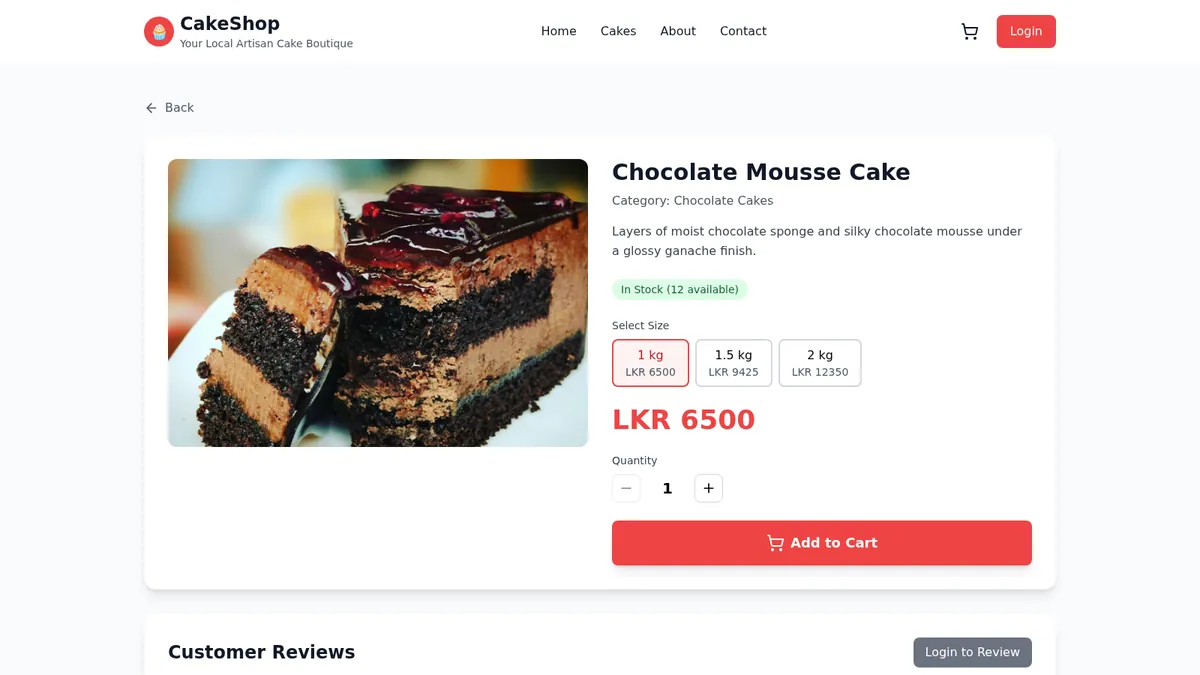
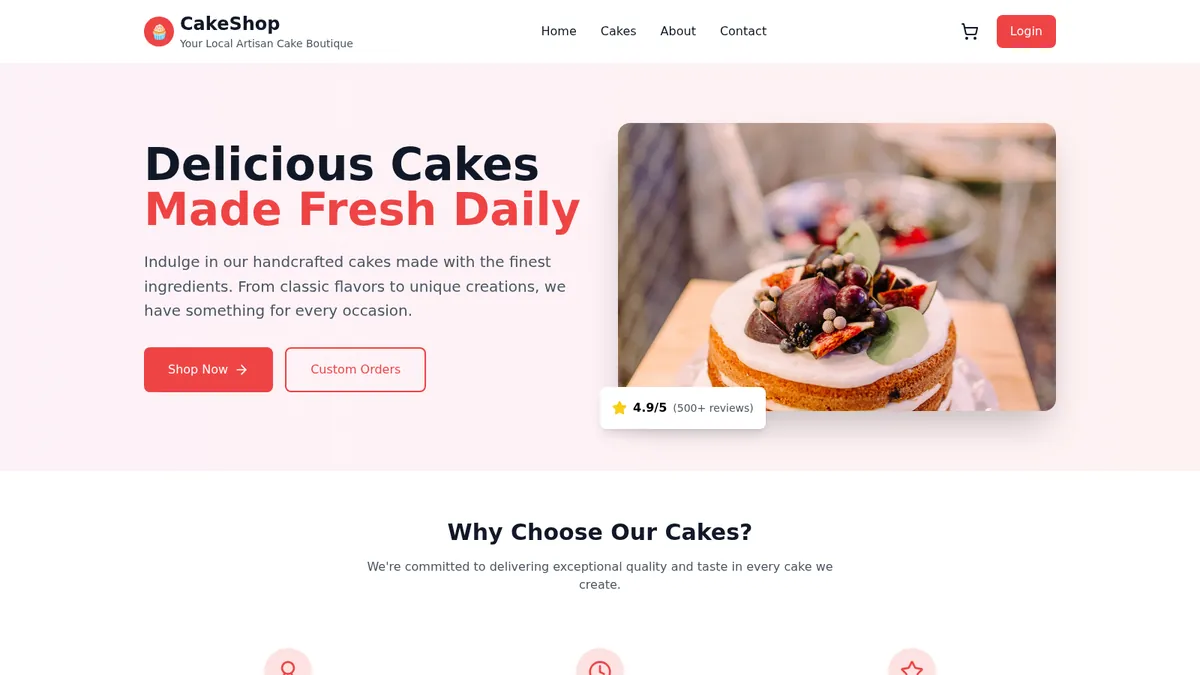
Use each app's home page as its project screenshot
- replace the CakeShop product page and Ceylon Cuisine recipe cards
  with their home pages, and add the RelaxU home page; all three from
  local runs, 1200x675 WebP, alt text describing each home page
- RelaxU: 'What I built' covers the relaxation activities module,
  from the commit history (17 of the module's 19 commits)

diff --git a/src/data/projects.ts b/src/data/projects.ts
@@ -71,7 +71,7 @@ export const projects: ProjectEntry[] = [
     stack: ['React', 'Vite', 'Tailwind CSS', 'React Router', 'Axios', 'Node.js', 'Express', 'MongoDB', 'Mongoose', 'JWT', 'Nodemailer', 'PayHere'],
     keyStack: ['React', 'Tailwind CSS', 'PayHere'],
     thumbnail: '/projects/cakeshop.webp',
-    thumbnailAlt: 'CakeShop product page for a chocolate mousse cake, with size options priced in LKR, stock status and an Add to Cart button',
+    thumbnailAlt: 'CakeShop home page with the headline Delicious Cakes Made Fresh Daily, Shop Now and Custom Orders buttons, and a photo of a fruit-topped cake',
     description:
       'Customers browse cakes by category with search and filters, add them to a cart or wishlist, request custom cakes and track their orders, paying by cash on delivery or through PayHere with zone-based delivery fees. An admin side manages products, categories, orders, custom requests, reviews and customer messages, with a sales and order analytics dashboard.',
     built: [
@@ -120,7 +120,7 @@ export const projects: ProjectEntry[] = [
     stack: ['PHP', 'MySQL', 'JavaScript', 'AJAX', 'CSS'],
     keyStack: ['PHP', 'MySQL', 'JavaScript'],
     thumbnail: '/projects/ceylon-cuisine.webp',
-    thumbnailAlt: 'Ceylon Cuisine recipe cards for Watalappan, Achcharu and Asmi, each with a photo, description, star rating and View Recipe button',
+    thumbnailAlt: 'Ceylon Cuisine home page welcoming visitors, with Explore and Submit buttons and a photo of a Sri Lankan rice and curry meal',
     description:
       'Guests browse and search recipes; registered members submit their own with ingredients, steps and photos, rate recipes and keep favourites. Submissions go through an admin approval workflow, and an admin dashboard covers user management, recipe moderation and platform statistics. Accounts use hashed passwords and role-based access for admins and members.',
     built: [
@@ -159,9 +159,16 @@ export const projects: ProjectEntry[] = [
     summary: 'Stress-monitoring and workload app for university students, built by a team of four on a custom PHP MVC.',
     stack: ['PHP', 'JavaScript', 'HTML', 'CSS', 'MySQL', 'PHPMailer'],
     keyStack: ['PHP', 'JavaScript', 'MySQL'],
+    thumbnail: '/projects/relaxu.webp',
+    thumbnailAlt: 'RelaxU home page with the headline Healthy Minds, Happy Lives, Student Mental Health Consultancy, a Get started button and a photo of a student studying',
     description:
       'RelaxU helps university students notice stress early and keep their workload under control. It combines self-assessment surveys and typing-behaviour analysis for stress insights with mindfulness, guided meditation and breathing exercises, and recommends counselling at high stress levels. Coursework organisers, reminders and priority-based planning sit alongside discussion forums, peer support groups, articles and videos, and session booking with counsellors and academic advisors. It is built on a custom MVC architecture in plain PHP and JavaScript, with no frameworks.',
-    built: ['[Your part in the team of four]'],
+    built: [
+      'Built the relaxation activities module, my part of the team of four',
+      'Built the student-facing activity cards, with descriptions and links to guided videos and playlists',
+      'Built the admin portal to add, edit and delete activities, across the controller, model and views',
+      'Grouped activities by stress level (low, moderate, high) for the stress-level suggester',
+    ],
     learned: ['[What you learned]', '[What you learned]'],
     diagram: {
       columns: [
